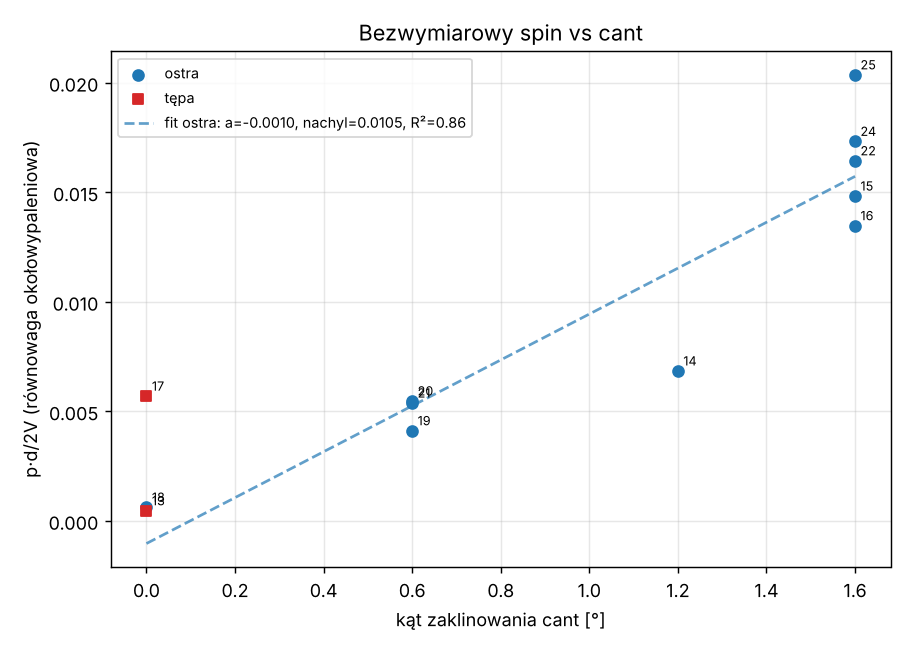
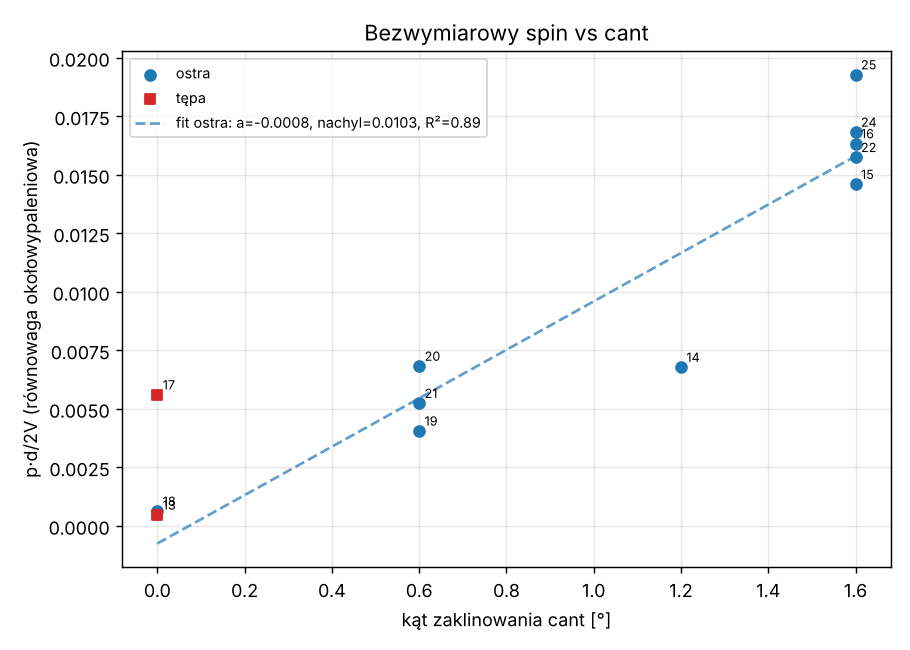
Spin-vs-cant: acc_x axial Mach + DATCOM model calibration
- Velocity/Mach now from axial accelerometer integration (acc_x minus the
  rest gravity projection), reliable in the powered phase, instead of the 3D
  IMU reconstruction. Fit essentially unchanged: slope 0.0103, a ~ 0, R2 0.886.
- Measured Clp from the coast-decay time constant: Clp = -4*Ixx/(rho*V*S*d^2*tau),
  with Ixx from the config yaml and coast rho/V from ISA + GPS.
- Compare against the DATCOM cant runs (0/0.6/1.6, CLL and Clp at alpha=0):
  model under-predicts spin ~4x, fully explained by Clp (measured ~0.48 vs
  model ~1.90, Clp_scale ~0.25) while roll drive CLL is correct (CLL_scale ~1.0).
  Proposed calibration printed with its Mach/cant validity range.

Claude-Session: https://claude.ai/code/session_016ry2enmcJ1dddpXR78yRQo

diff --git a/FlightSim/telemetry_analysis/analyze_spin_cant.py b/FlightSim/telemetry_analysis/analyze_spin_cant.py
@@ -43,12 +43,18 @@ from pathlib import Path
 sys.path.insert(0, str(Path(__file__).resolve().parent))
 from telemetry_parser import (parse_telemetry, resolve_data_file, get_data_dir,
                               read_config_rows, load_flight_config)
-from imu_reconstruction import (detect_ignition, calibrate,
-                                initial_orientation, reconstruct)
+from imu_reconstruction import detect_ignition
 
-D_REF = 0.070          # średnica odniesienia [m]
+G0 = 9.80665
+
+D_REF = 0.070                      # średnica odniesienia [m]
+S_REF = np.pi * D_REF ** 2 / 4.0   # pole odniesienia [m²]
+IXX_COAST = 0.0028                 # moment bezwładności roll (po wypaleniu) [kg·m²] (yaml)
 R_AIR = 287.05
 RESULTS = get_data_dir() / "results"
+
+# Przebiegi DATCOM dla modelu roll vs cant
+MODEL_RUNS = {0.0: "cant0p000", 0.6: "cant0p600", 1.6: "cant1p600"}
 
 
 # --------------------------------------------------------------------------
@@ -56,6 +62,13 @@ def isa_sound_speed(h_m):
     """Prędkość dźwięku wg ISA (troposfera) [m/s]. h w [m ASL]."""
     T = 288.15 - 0.0065 * np.clip(h_m, 0.0, 20000.0)
     return np.sqrt(1.4 * R_AIR * T)
+
+
+def isa_rho(h_m):
+    """Gęstość powietrza wg ISA [kg/m³]."""
+    T = 288.15 - 0.0065 * np.clip(h_m, 0.0, 20000.0)
+    p = 101325.0 * (T / 288.15) ** 5.2561
+    return p / (R_AIR * T)
 
 
 def ax_channel(tel):
@@ -176,21 +189,27 @@ def mag_spin_check(tel, t0, t1):
 
 
 # --------------------------------------------------------------------------
-def reconstruct_speed(tel, t_ign, t_end, fno):
+def axial_speed(tel, t_ign):
     """
-    Prędkość i wysokość z rekonstrukcji IMU (nie z GPS — ten zaniża V w fazie
-    napędowej). Zwraca (time, speed, alt) na siatce rekonstrukcji lub None.
+    Prędkość osiowa z integracji akcelerometru X (°/s → m/s).
+
+    Akcelerometr mierzy siłę właściwą; w spoczynku acc_x = rzut grawitacji na oś
+    (= acc_x_rest). Przy ~stałej orientacji we WCZESNEJ fazie (napęd/wczesny
+    wybieg) inercjalne przyspieszenie osiowe = (acc_x − acc_x_rest)·g0, więc
+    v_osiowa(t) = ∫ od zapłonu. Wiarygodne tylko na początku lotu — używamy go
+    w oknie okołowypaleniowym (tam GPS zaniża V).
     """
-    cfg = load_flight_config(fno)
-    az = cfg["azimuth"] if cfg else 90.0
-    el = cfg["elevation"] if cfg else 45.0
-    try:
-        cal = calibrate(tel, t_rest_end=-1.0)
-        q0 = initial_orientation(cal, az, el)
-        traj = reconstruct(tel, cal, q0, t_start=t_ign, t_end=t_end)
-        return traj.time, traj.speed, traj.alt
-    except Exception:
+    acc = tel.acc_x
+    if acc is None:
         return None
+    rest = tel.time < (t_ign - 0.5)
+    bias = np.nanmean(acc[rest]) if np.any(rest) else 0.0
+    a = np.nan_to_num((acc - bias) * G0)
+    a[tel.time < t_ign] = 0.0
+    dt = np.diff(tel.time, prepend=tel.time[0])
+    v = np.cumsum(a * dt)
+    v[tel.time < t_ign] = 0.0
+    return v
 
 
 def analyze_flight(fno, cant, nose, verbose=True):
@@ -199,6 +218,7 @@ def analyze_flight(fno, cant, nose, verbose=True):
     rec = dict(fno=fno, cant=cant, nose=nose, source=None, V_src=None,
                t_ign=np.nan, t_bo=np.nan, p_peak=np.nan, V_bo=np.nan,
                mach=np.nan, pd2V=np.nan, tau_coast=np.nan, tau_r2=np.nan,
+               mach_coast=np.nan, clp_meas=np.nan,
                mag_spin=np.nan, mag_ch=None)
     if not fname.exists():
         if verbose:
@@ -221,18 +241,19 @@ def analyze_flight(fno, cant, nose, verbose=True):
     else:
         t_apo = float(t[-1])
 
-    # Prędkość/wysokość z rekonstrukcji IMU (wiarygodne w fazie napędowej)
-    V = Valt = None
-    rc = reconstruct_speed(tel, t_ign, t_apo, fno) if ok else None
-    if rc is not None:
-        tr, sp, al = rc
-        V = np.interp(t, tr, sp, left=np.nan, right=np.nan)
-        Valt = np.interp(t, tr, al, left=np.nan, right=np.nan)
-        rec["V_src"] = "IMU"
+    # Prędkość osiowa z akcelerometru X (wiarygodna we wczesnej fazie; GPS zaniża
+    # V w fazie napędowej). Wysokość do prędkości dźwięku — z GPS, inaczej start.
+    V = axial_speed(tel, t_ign)
+    if V is not None:
+        rec["V_src"] = "accX"
     else:
         V = total_speed(tel)
-        Valt = alt_gps
         rec["V_src"] = "GPS"
+    if alt_gps is not None and np.any(np.isfinite(alt_gps)):
+        Valt = alt_gps
+    else:
+        a0 = alt_gps[np.isfinite(alt_gps)] if alt_gps is not None else None
+        Valt = np.full_like(t, a0[0] if a0 is not None and len(a0) else 200.0)
 
     t_bo = detect_burnout(tel, t_ign)
     if ok:
@@ -259,9 +280,25 @@ def analyze_flight(fno, cant, nose, verbose=True):
                 rec["mach"] = float(np.nanmedian(
                     V[win] / isa_sound_speed(Valt[win])))
 
-        # tłumienie: zanik w wybiegu
+        # tłumienie: zanik spinu w wybiegu -> stała czasowa τ
         tau, p0, r2 = coast_decay_tau(t, ps, t_bo, t_apo)
         rec["tau_coast"], rec["tau_r2"] = tau, r2
+
+        # zmierzone Clp z zaniku: Ixx·dp/dt = ¼ρV·S·d²·Clp·p  ⇒
+        #   Clp = −4·Ixx / (ρ·V·S·d²·τ).  V i wysokość w wybiegu z GPS (tam GPS OK).
+        if np.isfinite(tau) and tau > 0:
+            Vg = total_speed(tel)
+            cwin = (t > t_bo + 0.3) & (t < min(t_bo + 6.0, t_apo)) & np.isfinite(Vg)
+            if Vg is not None and np.sum(cwin) > 10:
+                Vc = float(np.nanmedian(Vg[cwin]))
+                hc = (float(np.nanmedian(alt_gps[cwin]))
+                      if alt_gps is not None and np.any(np.isfinite(alt_gps[cwin]))
+                      else 500.0)
+                if Vc > 20:
+                    rho = isa_rho(hc)
+                    rec["mach_coast"] = Vc / isa_sound_speed(hc)
+                    rec["clp_meas"] = -4.0 * IXX_COAST / (
+                        rho * Vc * S_REF * D_REF ** 2 * tau)
 
     # kontrola magnetometrem (okno okołowypaleniowe)
     if not np.isnan(rec["t_bo"]):
@@ -291,6 +328,72 @@ def fit_cant(records, nose="ostra"):
     return dict(nose=nose, slope=float(slope), intercept=float(inter),
                 r2=float(ss), n=len(rows),
                 cants=sorted(set(cant.tolist())))
+
+
+def load_model_roll():
+    """Wczytuje tabele DATCOM (CLL, Clp) dla cant 0/0.6/1.6. Zwraca dict lub {}."""
+    import pickle
+    base = Path(__file__).resolve().parent.parent
+    sys.path.insert(0, str(base))               # pkl potrzebuje modułu 'models'
+    tabs = {}
+    for cant, name in MODEL_RUNS.items():
+        p = base / "datcom_runs" / f"rocket_70mm_baseline_{name}" / "aero_table_missile.pkl"
+        if p.exists():
+            try:
+                tabs[cant] = pickle.load(open(p, "rb"))
+            except Exception as e:
+                print(f"  [model] nie wczytano {name}: {e}")
+    return tabs
+
+
+def model_calibration(records, fit_meas):
+    """
+    Porównanie z DATCOM i propozycja kalibracji:
+      - nachylenie p·d/2V vs cant (pomiar vs model)  -> niedoszacowanie spinu,
+      - Clp (pomiar z τ vs model analityczny)        -> Clp_scale,
+      - Clδ (napęd)                                   -> CLL_scale.
+    Zwraca dict z wynikami (lub None).
+    """
+    tabs = load_model_roll()
+    if len(tabs) < 2 or fit_meas is None:
+        return None
+    t0 = tabs[0.0]
+    i0 = int(np.argmin(np.abs(t0.alpha_table)))     # alpha = 0
+    mach = t0.mach_table
+
+    def model_CLL(cant, m):
+        return float(np.interp(m, mach, np.abs(tabs[cant].CLL_table[i0, :])))
+
+    def model_Clp(m):
+        return float(np.interp(m, mach, np.abs(t0.Clp_table[i0, :])))
+
+    # reprezentatywny Mach wybiegu (mediana z lotów)
+    mc = np.array([r["mach_coast"] for r in records if np.isfinite(r["mach_coast"])])
+    m_rep = float(np.median(mc)) if len(mc) else 0.4
+
+    # model: nachylenie p·d/2V vs cant[deg] = (dCLL/dcant)/Clp  (wartości bezwzgl.)
+    cants = np.array(sorted(MODEL_RUNS))
+    cll = np.array([model_CLL(c, m_rep) for c in cants])
+    A = np.vstack([cants, np.ones_like(cants)]).T
+    dCLL_dc = float(np.linalg.lstsq(A, cll, rcond=None)[0][0])     # per deg
+    clp_model = model_Clp(m_rep)
+    slope_model = dCLL_dc / clp_model                              # per deg
+
+    slope_meas = abs(fit_meas["slope"])                           # per deg
+    # Clp: średnia z lotów (wartości bezwzględne)
+    clp_m = np.array([abs(r["clp_meas"]) for r in records if np.isfinite(r["clp_meas"])])
+    clp_meas_mean = float(np.mean(clp_m)) if len(clp_m) else np.nan
+
+    clp_scale = clp_meas_mean / clp_model if np.isfinite(clp_meas_mean) else np.nan
+    spin_factor = slope_meas / slope_model
+    # slope = CLL/Clp  =>  CLL_scale = spin_factor * clp_scale
+    cll_scale = spin_factor * clp_scale if np.isfinite(clp_scale) else np.nan
+
+    return dict(m_rep=m_rep, slope_meas=slope_meas, slope_model=slope_model,
+                spin_factor=spin_factor, clp_model=clp_model,
+                clp_meas=clp_meas_mean, clp_scale=clp_scale,
+                dCLL_dc_model=dCLL_dc, cll_scale=cll_scale,
+                n_clp=len(clp_m))
 
 
 def save_plots(records, fit_ostra):
@@ -375,6 +478,25 @@ def main(argv=None):
         print(f"  R²={fit_o['r2']:.3f}  n={fit_o['n']}  cant={fit_o['cants']}")
     else:
         print("  za mało punktów")
+
+    cal = model_calibration(records, fit_o)
+    if cal:
+        print("\n" + "=" * 60)
+        print("Porównanie z DATCOM + propozycja kalibracji (ostra)")
+        print("=" * 60)
+        print(f"  Mach reprezentatywny (wybieg): {cal['m_rep']:.2f}")
+        print(f"  nachylenie p·d/2V vs cant:  pomiar={cal['slope_meas']:.4f}  "
+              f"model={cal['slope_model']:.4f}  /deg")
+        print(f"  -> spin niedoszacowany przez model x{cal['spin_factor']:.1f}")
+        print(f"  Clp (tłumienie):  pomiar={cal['clp_meas']:.3f}  "
+              f"model={cal['clp_model']:.3f}   (n={cal['n_clp']})")
+        print(f"  -> Clp_scale = {cal['clp_scale']:.2f}  "
+              f"(model {'przetłumia' if cal['clp_scale']<1 else 'niedotłumia'})")
+        print(f"  Clδ (napęd):  CLL_scale = {cal['cll_scale']:.2f}")
+        print(f"\n  PROPOZYCJA (zakres: Mach {np.nanmin([r['mach_coast'] for r in records if np.isfinite(r['mach_coast'])]):.1f}"
+              f"–{cal['m_rep']:.1f}, cant 0–1.6°, ostra):")
+        print(f"    Clp_scale ≈ {cal['clp_scale']:.2f}   CLL_scale ≈ {cal['cll_scale']:.2f}")
+        print(f"    (do weryfikacji po budowie modelu AMS/RMS)")
 
     RESULTS.mkdir(exist_ok=True)
     csv_path = RESULTS / "spin_cant_summary.csv"
